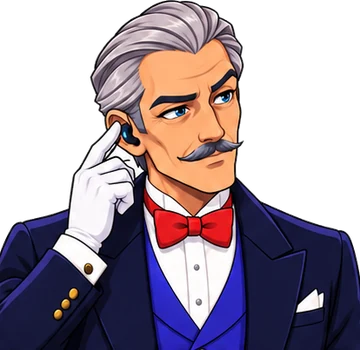
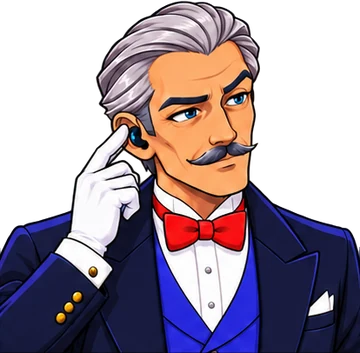
feat(alfred): bustes tires de la planche detouree, URL d'images versionnees
Les bustes viennent de la planche deja detouree : contour net sur fond
sombre, sans le liseré clair du detourage du fond blanc. Les poses en
pied restent celles de la planche haute definition (4 fois plus fine).
?v=2 sur les images pour ne pas servir les anciennes depuis le cache.

diff --git a/templates/alfred_retours.html b/templates/alfred_retours.html
@@ -22,7 +22,7 @@
   <div class="app-main single-col-page">
     <header class="app-header">
       <span class="header-title" style="display:flex; align-items:center; gap:8px;">
-        <span class="alfred-face"><img src="{{ url_for('static', filename='img/alfred/buste-pouce.webp') }}" alt=""></span>
+        <span class="alfred-face"><img src="{{ url_for('static', filename='img/alfred/buste-pouce.webp') }}?v=2" alt=""></span>
         Retours Alfred
       </span>
       <div class="header-spacer"></div>
@@ -34,7 +34,7 @@
     <div id="main-content">
       <div class="ar-page">
         <p class="ar-intro">
-          <img class="alfred-fig" src="{{ url_for('static', filename='img/alfred/pied-note.webp') }}" alt="">
+          <img class="alfred-fig" src="{{ url_for('static', filename='img/alfred/pied-note.webp') }}?v=2" alt="">
           Chaque pouce posé par un opérateur dans le chat fige ici l'échange complet : conversation,
           outils appelés et ce que Cockpit leur a répondu. Ces retours ne sont pas purgés à 90 jours.
           Pour un pouce bas : identifier la cause (outil Cockpit, prompt ou modèle côté VM, question hors champ),
@@ -81,6 +81,6 @@
   window.__userIsManager = {{ "true" if ("manager" in user_roles or "admin" in user_roles) else "false" }};
 </script>
 <script src="{{ url_for('static', filename='js/sidebar.js') }}"></script>
-<script src="{{ url_for('static', filename='js/alfred_retours.js') }}?v=2"></script>
+<script src="{{ url_for('static', filename='js/alfred_retours.js') }}?v=3"></script>
 </body>
 </html>

diff --git a/templates/_sidebar.html b/templates/_sidebar.html
@@ -222,7 +222,7 @@
             <span class="label">Applications liees</span>
         </a>{% endif %}
         {% if _adm %}<a href="/alfred-retours" class="{{ nav_class('/alfred-retours') }}" title="Pouces et motifs des operateurs sur les reponses d'Alfred" data-nav-item>
-            <span class="material-symbols-outlined alfred-face"><img src="{{ url_for('static', filename='img/alfred/buste-pouce.webp') }}" alt=""></span>
+            <span class="material-symbols-outlined alfred-face"><img src="{{ url_for('static', filename='img/alfred/buste-pouce.webp') }}?v=2" alt=""></span>
             <span class="label">Retours Alfred</span>
         </a>{% endif %}
         {% if _adm or (admin_page_allowed is defined and admin_page_allowed('wiki_admin')) %}<a href="/admin/wiki" class="{{ nav_class('/admin/wiki') }}" data-nav-item>
@@ -322,6 +322,6 @@
 {% if alfred_chat_allowed is defined and alfred_chat_allowed() %}
 <div id="alfred-chat-root" data-firstname="{{ user_firstname | default('', true) }}"></div>
 {# ?v= a incrementer a chaque modification du widget (cache navigateur). #}
-<link rel="stylesheet" href="{{ url_for('static', filename='css/alfred_chat.css') }}?v=10">
-<script src="{{ url_for('static', filename='js/alfred_chat.js') }}?v=12" defer></script>
+<link rel="stylesheet" href="{{ url_for('static', filename='css/alfred_chat.css') }}?v=11">
+<script src="{{ url_for('static', filename='js/alfred_chat.js') }}?v=13" defer></script>
 {% endif %}

diff --git a/templates/edit.html b/templates/edit.html
@@ -624,13 +624,13 @@
       <!-- Section Contexte des evenements (Alfred) -->
       <section class="widget-card" style="margin-top:16px;">
         <header class="widget-header" data-collapsible data-section="alfred-contexte">
-          <h3><span class="alfred-face"><img src="{{ url_for('static', filename='img/alfred/buste-montre.webp') }}" alt=""></span> Contexte des événements (Alfred)</h3>
+          <h3><span class="alfred-face"><img src="{{ url_for('static', filename='img/alfred/buste-montre.webp') }}?v=2" alt=""></span> Contexte des événements (Alfred)</h3>
           <span id="aec-status" style="font-size:0.78rem; color:var(--muted); margin-left:auto; margin-right:8px;"></span>
           <span class="material-symbols-outlined collapse-icon">expand_more</span>
         </header>
         <div class="widget-body collapsible" id="alfred-contexte-body">
           <p class="aec-intro">
-            <img class="alfred-fig" src="{{ url_for('static', filename='img/alfred/pied-document.webp') }}" alt="">
+            <img class="alfred-fig" src="{{ url_for('static', filename='img/alfred/pied-document.webp') }}?v=2" alt="">
             Quelques lignes par événement pour qu'Alfred <strong>comprenne</strong> les questions : nature de
             l'événement, public, particularités, vocabulaire du PC. Les <strong>surnoms</strong> (« les camions »,
             « TC ») lui permettent de retrouver l'événement dont parle l'opérateur.

diff --git a/templates/field_dispatch.html b/templates/field_dispatch.html
@@ -231,7 +231,7 @@
             {% if show_alfred %}
             <section class="widget-card" style="margin-top:24px; border-top:3px solid #059669;">
                 <header class="widget-header">
-                    <h3><span class="alfred-face"><img src="{{ url_for('static', filename='img/alfred/buste-ecoute.webp') }}" alt=""></span> Alfred &mdash; agent IA WhatsApp</h3>
+                    <h3><span class="alfred-face"><img src="{{ url_for('static', filename='img/alfred/buste-ecoute.webp') }}?v=2" alt=""></span> Alfred &mdash; agent IA WhatsApp</h3>
                     <div id="alfred-admin-count" style="font-size:12px; color:var(--muted); margin-left:auto;"></div>
                 </header>
                 <div class="widget-body">

diff --git a/static/js/alfred_chat.js b/static/js/alfred_chat.js
@@ -235,7 +235,7 @@
   var IMG_BASE = "/static/img/alfred/";
   function alfredImg(name, cls) {
     var img = el("img", cls);
-    img.src = IMG_BASE + name + ".webp";
+    img.src = IMG_BASE + name + ".webp?v=2";
     img.alt = "";
     img.draggable = false;
     img.decoding = "async";
@@ -250,7 +250,7 @@
   function setPose(a, pose) {
     if (!a || a.getAttribute("data-pose") === pose) return;
     a.setAttribute("data-pose", pose);
-    a.firstChild.src = IMG_BASE + "buste-" + pose + ".webp";
+    a.firstChild.src = IMG_BASE + "buste-" + pose + ".webp?v=2";
   }
 
   function csrf() {

diff --git a/static/js/alfred_retours.js b/static/js/alfred_retours.js
@@ -251,7 +251,7 @@
   function vide(pose, texte) {
     var box = el("div", "ar-empty alfred-empty");
     var img = el("img", "alfred-fig");
-    img.src = "/static/img/alfred/" + pose + ".webp";
+    img.src = "/static/img/alfred/" + pose + ".webp?v=2";
     img.alt = "";
     box.appendChild(img);
     box.appendChild(el("p", null, texte));

diff --git a/docs/claude/alfred.md b/docs/claude/alfred.md
@@ -16,7 +16,7 @@ WAHA pousse les messages sur `POST /api/wa/webhook` (HMAC, exempté de CSRF). Pa
 
 Bulle flottante injectée par `_sidebar.html` (donc sur toute page à barre latérale) si `alfred_chat_allowed()` : drapeau de groupe **`alfred_chat`** (Configuration > Groupes > Assistant > « Chat Alfred »), **coupé par défaut**, toujours vrai pour un admin, sans groupe = celui du groupe par défaut (`app.user_can_alfred_chat`). Brief du wrapper côté VM : `docs/alfred-vm-brief.md`.
 
-- **Personnage (29/10/2026)** : `static/img/alfred/` = 9 bustes (`buste-neutre|salut|malicieux|pouce|ecoute|stop|clin|montre|aurevoir`) et 9 poses en pied (`pied-accueil|document|plateau|indique|parapluie|presente|ecoute|note|the`), WebP détourés tirés de deux planches 3 x 3 (script de découpe hors dépôt : grille, fond blanc retiré par remplissage depuis les bords, numéros de case effacés, ombre au sol sombre semi-transparente). Widget : `avatar(pose)` / `setPose`, la pose suit l'état (`renderPoses`) : bulle = salue au survol, `montre` pendant une réponse, `clin` sur non lu, `stop` si injoignable ; en-tête `ecoute` pendant une réponse ; message en attente `ecoute` puis `montre` (`typingPose`, rafraîchi par le minuteur des secondes) ; erreur `stop`, pouce haut `pouce`, pouce bas `salut` ; accueil `pied-accueil`, historique vide `pied-the`. Hors widget : classe `.alfred-face` / `.alfred-fig` (`style.css`) sur la barre latérale, /alfred-retours, l'admin WhatsApp et le contexte des événements. Remplacer une image = même nom de fichier (penser au `?v=` si le cache gêne).
+- **Personnage (29/10/2026)** : `static/img/alfred/` = 9 bustes (`buste-neutre|salut|malicieux|pouce|ecoute|stop|clin|montre|aurevoir`) et 9 poses en pied (`pied-accueil|document|plateau|indique|parapluie|presente|ecoute|note|the`), WebP détourés tirés de deux planches 3 x 3 (script de découpe hors dépôt). Poses en pied : planche sur fond blanc 4096 x 6144, fond retiré par remplissage depuis les bords, ombre au sol sombre semi-transparente. Bustes : planche déjà détourée (alpha), halo < 40 coupé, numéros de case effacés ; plus nets sur fond sombre que le détourage du fond blanc. Widget : `avatar(pose)` / `setPose`, la pose suit l'état (`renderPoses`) : bulle = salue au survol, `montre` pendant une réponse, `clin` sur non lu, `stop` si injoignable ; en-tête `ecoute` pendant une réponse ; message en attente `ecoute` puis `montre` (`typingPose`, rafraîchi par le minuteur des secondes) ; erreur `stop`, pouce haut `pouce`, pouce bas `salut` ; accueil `pied-accueil`, historique vide `pied-the`. Hors widget : classe `.alfred-face` / `.alfred-fig` (`style.css`) sur la barre latérale, /alfred-retours, l'admin WhatsApp et le contexte des événements. Remplacer une image = même nom de fichier (penser au `?v=` si le cache gêne).
 - **Client HMAC unique** : `alfred._alfred_ask` (celui de WhatsApp), étendu par des options `request_id`, `is_new_mention`, `extra`, `timeout` absentes du corps quand elles valent `None` (payload WhatsApp identique, testé).
 - ⚠ **Asynchrone obligatoire** : Waitress = 4 threads, une réponse = 3 à 90 s. `POST /api/alfred-chat/ask` insère la question + une réponse `queued`, lance un thread (sémaphore `ALFRED_CHAT_MAX_CONCURRENT`, 2) et rend tout de suite ; le front relit `GET /message/<id>` toutes les 1,5 s. La conversation vit en base : changer de page ne perd pas la réponse. Un message resté `queued/running` au-delà de file + timeout + 60 s passe en erreur `expire` (thread perdu au redémarrage). Une seule question en cours par opérateur (409), 40 questions / 10 min (429).
 - **Contexte** (`ALFRED_CHAT_CONTEXT_MODE`) : `prefix` (défaut, compatible wrapper actuel qui ignore `system`) = ligne `[Contexte Cockpit, a ne pas recopier] ...` en tête du dernier message ; `field` = `channel: "cockpit"` + `context {...}` ; `both` pour la bascule.
